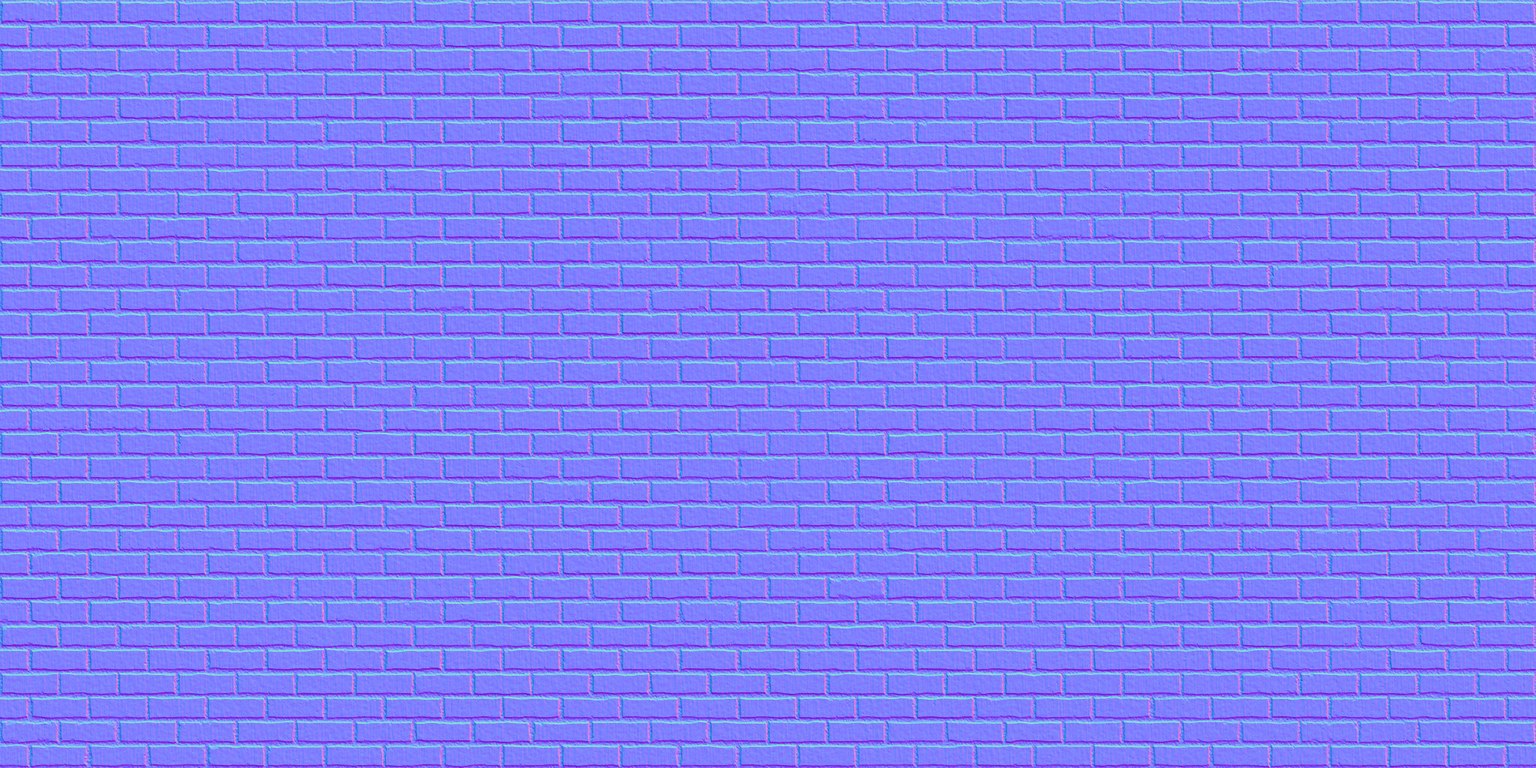
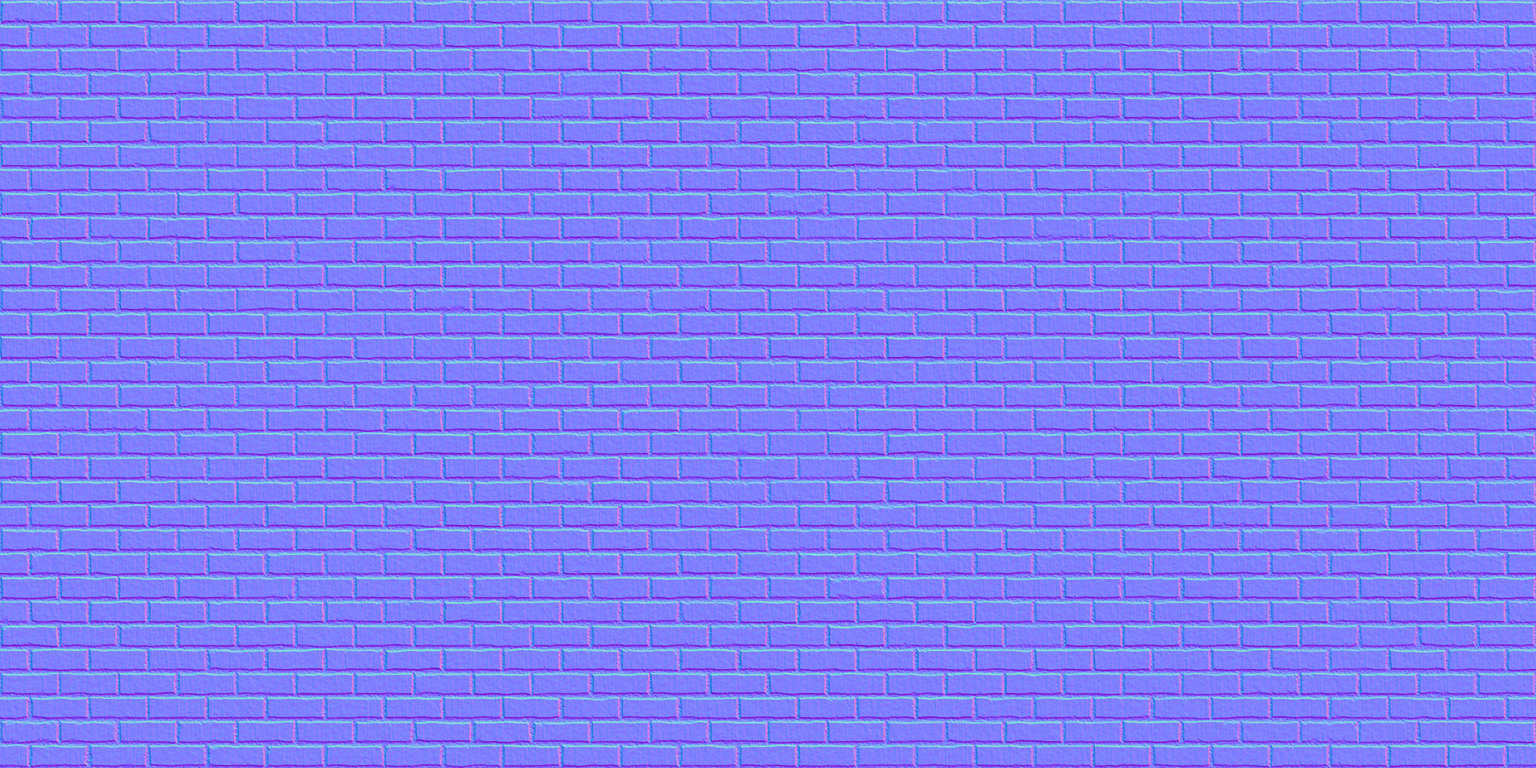
Textures v3 (QA of v2): wall-plane weathering noise, red-brown Hinsdale brick, pavers and red walls on their own tiles, pier returns
- Surface shader: all noise sampled in the wall's own plane (no more diagonal efflorescence / grime slashes, medium
  and low); efflorescence only low on the wall; 5 noise lookups instead of 8, second tile sample only inside the
  cross-fade band (textureGrad).
- Hinsdale: brickRed (low walls, dugouts, sign base, piers) gets a red-brick tile; walks use the keyed hcPaver,
  regenerated redder; buff and taupe bricks retargeted for how they render in sun (no peach); 1950 blend browner,
  warmer mortar, far fewer near-black units.
- Facade kit + Hamilton kit: brick pier returns shaded, bond wrapped round the corner and lit like their wall (the
  thin pale line up every pier edge was sun leaking through the shadow bias).
- MAP_NOTES / README: v3 lessons. Before / after sheets in dev/shots/textures/<id>/v3/.

diff --git a/src/world/campusTextures.js b/src/world/campusTextures.js
@@ -18,31 +18,48 @@ import { withWorld } from './assets.js';
 //         by slow world-space noise: joints stay registered, but no two stretches of wall show the same bricks, so a
 //         2-5 m tile does not read as a grid on a 60 m wall. z = 0 turns it off (low quality: one sample).
 //   uVar  [macro tone drift, rain streaks, micro grain (fades out with distance: no shimmer), roughness variation]
+// All noise is sampled in the SURFACE's own plane: `wp` = (distance along the wall, height) on walls, (x, z) on roofs
+// and paving. Never add height to both axes of a world-xz lookup (`xz * f + y * g`): that shears every blob into a
+// diagonal slash across the wall (v2: pale efflorescence slashes on Brown Hall, worst on low quality).
+// Cost: 5 value-noise lookups + 1 near the camera (v2: 8 + 2), and the second tile sample is only taken where the
+// cross-fade needs it (explicit gradients, so mip selection is unchanged): ~1.1 albedo samples per pixel instead of 2.
 const PARS = 'uniform vec3 uWx; uniform vec3 uAlt; uniform vec4 uVar; uniform vec2 uMic; float txLum = 1.0; float txDamp = 0.0;';
-const WEATHER = `#ifdef USE_MAP
-  vec4 sampledDiffuseColor = texture2D( map, vMapUv );
+const WEATHER = `
+  float wallness = 1.0 - smoothstep(0.5, 0.9, abs(vWN.y));                               // grade damp / streaks / bloom belong on walls, not on roofs and paving
+  bool txAlongX = abs(vWN.x) > abs(vWN.z);                                               // wall faces +-x: it runs along z
+  vec2 wp = wallness > 0.5 ? vec2(txAlongX ? vWPos.z + 31.7 : vWPos.x, vWPos.y) : vWPos.xz;
+  float g1 = wNoise(wp * vec2(0.37, 0.21));                                              // broad grime, taller than wide
+  float g2 = wNoise(wp * vec2(1.7, 0.9) + 5.3);
+  float big = wNoise(wp * vec2(0.085, 0.11) + 11.1);                                     // slow drift: no two bays look the same
+#ifdef USE_MAP
+  vec4 sampledDiffuseColor;
   if (uAlt.z > 0.0) {
-    float am = wNoise(vWPos.xz * 0.19 + vec2(vWPos.y * 0.23, -vWPos.y * 0.17)) * 0.65 + wNoise(vWPos.xz * 0.53 + vWPos.y * 0.61) * 0.35;
-    sampledDiffuseColor = mix(sampledDiffuseColor, texture2D( map, vMapUv + uAlt.xy ), smoothstep(0.44, 0.56, am) * uAlt.z);
-  }
+    float am = smoothstep(0.42, 0.58, wNoise(wp * vec2(0.23, 0.29) + 3.7) * 0.7 + g2 * 0.3) * uAlt.z;
+    vec2 gx = dFdx(vMapUv), gy = dFdy(vMapUv);
+    if (am < 0.999) sampledDiffuseColor = textureGrad( map, vMapUv, gx, gy );
+    if (am > 0.001) { vec4 s2 = textureGrad( map, vMapUv + uAlt.xy, gx, gy ); sampledDiffuseColor = am < 0.999 ? mix(sampledDiffuseColor, s2, am) : s2; }
+  } else sampledDiffuseColor = texture2D( map, vMapUv );
   txLum = dot(sampledDiffuseColor.rgb, vec3(0.3, 0.55, 0.15));
   diffuseColor *= sampledDiffuseColor;
 #endif
-  { float gr = wNoise(vWPos.xz * 0.35 + vWPos.y * 0.9) * 0.6 + wNoise(vec2(vWPos.x + vWPos.z, vWPos.y) * 1.7) * 0.4;
-    float big = wNoise(vec2(vWPos.x * 0.07 + vWPos.z * 0.11, vWPos.y * 0.13));          // slow drift: no two bays look the same
-    float wallness = 1.0 - smoothstep(0.5, 0.9, abs(vWN.y));                             // grade damp / streaks belong on walls, not on roofs and paving
+  { float gr = g1 * 0.6 + g2 * 0.4;
     float base = smoothstep(1.1, 0.0, vWPos.y) * wallness;
     txDamp = uWx.y * base * (0.6 + 0.8 * gr);
     diffuseColor.rgb *= (1.0 - uWx.x * 0.5 + uWx.x * gr) * (1.0 - uVar.x * 0.5 + uVar.x * big) * (1.0 - txDamp);
     diffuseColor.rgb *= mix(vec3(1.0), vec3(1.035, 1.0, 0.955), (big - 0.5) * 2.0 * uVar.x * 2.0);   // warm / cool drift with the tone drift
-    float st = wNoise(vec2(vWPos.x * 2.3 + vWPos.z * 1.7, vWPos.y * 0.11)) * 0.7 + wNoise(vec2(vWPos.x * 5.1 - vWPos.z * 4.3, vWPos.y * 0.23)) * 0.3;
+    float st = wNoise(vec2(wp.x * 3.1, wp.y * 0.12)) * 0.75 + g2 * 0.25;
     diffuseColor.rgb *= 1.0 - uVar.y * wallness * smoothstep(0.52, 0.85, st);              // rain run-off: long vertical streaks
-    float eff = smoothstep(0.72, 0.95, wNoise(vWPos.xz * 0.9 + vWPos.y * 2.3)) * smoothstep(0.2, 1.2, vWPos.y) * uWx.z * wallness;
-    diffuseColor.rgb = mix(diffuseColor.rgb, vec3(0.8, 0.78, 0.74), eff);
+    // efflorescence: soft pale bloom low on the wall (above the damp base, gone by ~3 m: splash zone and under the
+    // ground-floor sills), blobs taller than wide, thin enough that the brick still shows through
+    float effBand = smoothstep(0.25, 0.9, vWPos.y) * (1.0 - smoothstep(1.6, 3.0, vWPos.y)) * wallness * uWx.z;
+    if (effBand > 0.001) {
+      float eff = smoothstep(0.66, 0.92, wNoise(wp * vec2(0.8, 0.42) + 17.3) * 0.8 + g2 * 0.2) * effBand;
+      diffuseColor.rgb = mix(diffuseColor.rgb, vec3(0.74, 0.71, 0.66), eff);
+    }
     #ifdef USE_MAP
     float pxw = length(fwidth(vWPos));
     float mf = smoothstep(0.006, 0.0012, pxw) * uVar.z;                                    // only where a texel is bigger than a pixel
-    if (mf > 0.001) { vec2 q = fract(vMapUv) * uMic; diffuseColor.rgb *= 1.0 + mf * (wNoise(q) + wNoise(q * 2.3 + 7.1) - 1.0); }
+    if (mf > 0.001) { vec2 q = fract(vMapUv) * uMic; diffuseColor.rgb *= 1.0 + mf * 1.5 * (wNoise(q) - 0.5); }
     #endif
   }`;
 const ROUGH = `float roughnessFactor = roughness;

diff --git a/src/world/facade.js b/src/world/facade.js
@@ -12,11 +12,12 @@ export function edgeFrame(ax, az, bx, bz) {
   const tx = dx / L, tz = dz / L, nx = tz, nz = -tx;
   return { L, tx, tz, nx, nz, rotY: Math.atan2(-tz, tx), ax, az, P: (u, y, out = 0) => [ax + tx * u + nx * out, y, az + tz * u + nz * out] };
 }
-export function quadFacing(b, p0, p1, p2, p3, n, uv) {
+// `sn` (optional): shading normal written to the vertices instead of the geometric one.
+export function quadFacing(b, p0, p1, p2, p3, n, uv, sn) {
   const ux = p1[0] - p0[0], uy = p1[1] - p0[1], uz = p1[2] - p0[2], vx = p3[0] - p0[0], vy = p3[1] - p0[1], vz = p3[2] - p0[2];
   const cx = uy * vz - uz * vy, cy = uz * vx - ux * vz, cz = ux * vy - uy * vx;
-  if (cx * n[0] + cy * n[1] + cz * n[2] >= 0) b.quad(p0, p1, p2, p3, uv && uv[0], uv && uv[1], uv && uv[2], uv && uv[3]);
-  else b.quad(p0, p3, p2, p1, uv && uv[0], uv && uv[3], uv && uv[2], uv && uv[1]);
+  if (cx * n[0] + cy * n[1] + cz * n[2] >= 0) b.quad(p0, p1, p2, p3, uv && uv[0], uv && uv[1], uv && uv[2], uv && uv[3], sn);
+  else b.quad(p0, p3, p2, p1, uv && uv[0], uv && uv[3], uv && uv[2], uv && uv[1], sn);
 }
 // rectangle on the wall plane (offset out), facing outward; uvr = [u0, v0, u1, v1]
 export function wallRect(b, F, u0, u1, y0, y1, out, uvr) {
@@ -25,13 +26,20 @@ export function wallRect(b, F, u0, u1, y0, y1, out, uvr) {
 }
 // box standing off the wall: spans u0..u1, y0..y1, out o0..o1 (o1 > o0). Draws front, both sides, top, bottom.
 // s = uv metres->uv scale, uOff shifts u for continuous brick coursing.
+// faces: f front, s both sides, t top, b bottom; 'w' with 's' = masonry returns: the bond WRAPS the corner (the side's u
+// continues from the front face's edge, so a return shows the brick ends the front face implies, not column 0 of the tile)
+// and the return is LIT LIKE THE WALL it stands on (shading normal leaning 80 % to the wall's): a 10 cm return sits
+// inside the shadow bias of the wall behind it, so on a shaded front the sun leaked onto every east / west return and
+// drew a thin pale line up each pier.
 export function fbox(b, F, u0, u1, y0, y1, o0, o1, s = 1, uOff = 0, faces = 'fstb') {
   const n = [F.nx, 0, F.nz], t = [F.tx, 0, F.tz];
   if (faces.includes('f')) wallRect(b, F, u0, u1, y0, y1, o1, [(uOff + u0) * s, y0 * s, (uOff + u1) * s, y1 * s]);
   if (faces.includes('s')) {
-    const d = (o1 - o0) * s;
-    quadFacing(b, F.P(u0, y0, o0), F.P(u0, y1, o0), F.P(u0, y1, o1), F.P(u0, y0, o1), [-t[0], 0, -t[2]], [[0, y0 * s], [0, y1 * s], [d, y1 * s], [d, y0 * s]]);
-    quadFacing(b, F.P(u1, y0, o0), F.P(u1, y1, o0), F.P(u1, y1, o1), F.P(u1, y0, o1), t, [[0, y0 * s], [0, y1 * s], [d, y1 * s], [d, y0 * s]]);
+    const d = (o1 - o0) * s, wrap = faces.includes('w');
+    const a0 = wrap ? (uOff + u0) * s - d : 0, a1 = a0 + d, b1 = wrap ? (uOff + u1) * s : d, b0 = wrap ? b1 + d : 0;
+    const sn = (k) => (wrap ? [0.8 * n[0] + 0.6 * k * t[0], 0, 0.8 * n[2] + 0.6 * k * t[2]] : undefined);
+    quadFacing(b, F.P(u0, y0, o0), F.P(u0, y1, o0), F.P(u0, y1, o1), F.P(u0, y0, o1), [-t[0], 0, -t[2]], [[a0, y0 * s], [a0, y1 * s], [a1, y1 * s], [a1, y0 * s]], sn(-1));
+    quadFacing(b, F.P(u1, y0, o0), F.P(u1, y1, o0), F.P(u1, y1, o1), F.P(u1, y0, o1), t, [[b0, y0 * s], [b0, y1 * s], [b1, y1 * s], [b1, y0 * s]], sn(1));
   }
   if (faces.includes('t')) quadFacing(b, F.P(u0, y1, o0), F.P(u1, y1, o0), F.P(u1, y1, o1), F.P(u0, y1, o1), [0, 1, 0], [[u0 * s, 0], [u1 * s, 0], [u1 * s, (o1 - o0) * s], [u0 * s, (o1 - o0) * s]]);
   if (faces.includes('b')) quadFacing(b, F.P(u0, y0, o0), F.P(u1, y0, o0), F.P(u1, y0, o1), F.P(u0, y0, o1), [0, -1, 0], [[u0 * s, 0], [u1 * s, 0], [u1 * s, (o1 - o0) * s], [u0 * s, (o1 - o0) * s]]);
@@ -334,8 +342,10 @@ export function facade(ctx, F, y0, h, styleName, uOff, rnd, opts = {}) {
     drawnPiers.push([uc, w, out]);
     // deep pilasters on the big blank walls get a slightly darker brick so they read as pilasters, not as one stray edge line
     // (their returns are shaded darker still: a 14 cm sunlit brick return read as a bright seam running up the wall)
-    if (out >= 0.14) { setTint(brick, tint, 0.9); fbox(brick, F, a, b, pY - 0.02, wallTop, 0, out, BRICK_S, uOff, 'f'); setTint(brick, tint, 0.62); fbox(brick, F, a, b, pY - 0.02, wallTop, 0, out, BRICK_S, uOff, 's'); setTint(brick, tint); }
-    else fbox(brick, F, a, b, pY - 0.02, wallTop, 0, out, BRICK_S, uOff, 'fs');
+    // Returns of every pier are a shade darker (the corner's own occlusion), carry the bond round the corner and take
+    // the wall's lighting ('w' in fbox): no thin pale line up the pier edges of a shaded front.
+    if (out >= 0.14) setTint(brick, tint, 0.9);
+    fbox(brick, F, a, b, pY - 0.02, wallTop, 0, out, BRICK_S, uOff, 'f'); setTint(brick, tint, out >= 0.14 ? 0.66 : 0.74); fbox(brick, F, a, b, pY - 0.02, wallTop, 0, out, BRICK_S, uOff, 'sw'); setTint(brick, tint);
     fbox(pl, F, a - 0.04, b + 0.04, 0, pY + 0.04, 0, out + 0.07, STONE_S, uOff, 'fst');
     fbox(B.v('limestone'), F, a - 0.03, b + 0.03, wallTop - 0.16, wallTop, 0, out + 0.04, STONE_S, uOff, 'fstb');
   }

diff --git a/src/world/buildings.js b/src/world/buildings.js
@@ -224,13 +224,16 @@ function bigFlag(ctx, x, z, kind) {
 
 // 55th St front: lawn, drop-off drive with kerbs, the main walk up to the doors flanked by limestone planters,
 // flagpoles and the monument sign by the street (positions read off the aerial imagery).
+// Clay-paver walks: their own generated texture when the campus pack has one (`hcPaver`, keyed). `brickRed` is the red
+// BRICK of low walls, piers and sign bases: paver-sized units on a wall read wrong, so the two no longer share a tile.
+function paverBucket(ctx) { const e = ctx.TX && ctx.TX.tex.hcPaver; return e && e.key ? ctx.B.v('hcPaver', true) : ctx.B.v('brickRed'); }
 function frontApproach55(ctx, addDecal) {
   const { B, M } = ctx;
   const conc = B.v('concrete');
   for (const [x0, x1, z1, paver] of [[52.5, 69.5, -150.7, true], [15.6, 19.6, -149.6, false]]) {
     conc.box((x0 + x1) / 2, 0.02, (-168.6 + z1) / 2, x1 - x0, 0.045, z1 + 168.6, 0, 1 / 3);
     if (paver) {   // brick paver runner down the middle, like the engraved-brick walks at the school
-      const br = B.v('brickRed'); const a = 59.2, b = 62.8;
+      const br = paverBucket(ctx); const a = 59.2, b = 62.8;
       br.quad([a, 0.062, z1], [b, 0.062, z1], [b, 0.062, -168.6], [a, 0.062, -168.6], [0, 0], [1.6, 0], [1.6, 8], [0, 8]);
     }
   }
@@ -275,7 +278,7 @@ function grantPlaza(ctx, addDecal) {
   const lift = (F) => ({ ...F, P: (u, y, o) => { const p = F.P(u, y, o); p[1] += T; return p; } });
   // terrace
   B.solidBox('concrete', 'concrete', (wx + xe) / 2, T / 2, 1.25, wx - xe, T, 37.5, 0, 1 / 3);
-  B.v('brickRed').quad([-18.2, T + 0.03, 17.6], [-6.7, T + 0.03, 17.6], [-6.7, T + 0.03, 6.4], [-18.2, T + 0.03, 6.4], [0, 0], [5.6, 0], [5.6, 5.4], [0, 5.4]);
+  paverBucket(ctx).quad([-18.2, T + 0.03, 17.6], [-6.7, T + 0.03, 17.6], [-6.7, T + 0.03, 6.4], [-18.2, T + 0.03, 6.4], [0, 0], [5.6, 0], [5.6, 5.4], [0, 5.4]);
   // steps (7 risers) on the west side in front of the doors, with a ramp in collision
   const conc = B.v('concrete');
   for (let k = 0; k < 6; k++) { const top = T - (k + 1) * (T / 7); conc.box(xe - 0.19 - k * 0.38, top / 2, 12, 0.38, top, 16, 0, 1 / 3); }

diff --git a/src/campuses/hamilton/kit.js b/src/campuses/hamilton/kit.js
@@ -369,7 +369,7 @@ export function storeyWalls(ctx, ringIn, h, o = {}) {
       const door = o.doors !== false && L > 20 ? Math.floor(nb / 2) : -1;
       for (let k = 0; k < nb; k++) {
         const c = m + (k + 0.5) * bay;
-        if (o.piers && k > 0) { wb.setColor(tint[0] * 0.94, tint[1] * 0.94, tint[2] * 0.94); fbox(wb, F, m + k * bay - 0.3, m + k * bay + 0.3, 0.55, top, 0, 0.09, S, u, 'fs'); wb.setColor(tint[0], tint[1], tint[2]); }
+        if (o.piers && k > 0) { wb.setColor(tint[0] * 0.94, tint[1] * 0.94, tint[2] * 0.94); fbox(wb, F, m + k * bay - 0.3, m + k * bay + 0.3, 0.55, top, 0, 0.09, S, u, 'f'); wb.setColor(tint[0] * 0.72, tint[1] * 0.72, tint[2] * 0.72); fbox(wb, F, m + k * bay - 0.3, m + k * bay + 0.3, 0.55, top, 0, 0.09, S, u, 'sw'); wb.setColor(tint[0], tint[1], tint[2]); }   // returns: shaded, bond wrapped, lit like the wall (fbox 'w')
         for (let s = 0; s < n; s++) {
           const y0 = s * fh + sill, y1 = y0 + wh;
           if (s === 0 && k === door) {

diff --git a/MAP_NOTES.md b/MAP_NOTES.md
@@ -151,7 +151,7 @@ Hinsdale, Hamilton, Marin and Branson all had to be gone over again because they
    Measure the old tile's linear mean from the file; do not trust a constant in the code (the shared shingle tile is
    0.032, the kits' `TILE_AVG` says 0.2: a neutral 0.2 shingle turned every Marin and Branson roof pink-white).
 6. **Check**: `?tex=0` is the before, default the after; one side-by-side per school building (before | after | photo
-   from the same side) in `dev/shots/textures/<id>/v2/` (the `ref-compare/` folder there is gitignored because
+   from the same side) in `dev/shots/textures/<id>/v<n>/` (the `ref-compare/` folder there is gitignored because
    it contains the photos). Map check 0 fails, practice with no console errors, FPS on medium, pack size (2-4 MB).
 7. **Colour: what made the difference (v2, after "Hinsdale brick is too grey").** The v1 Hinsdale bricks were measured
    honestly and still came out grey-purple in the game. Why, and the rules that fix it:
@@ -178,6 +178,30 @@ Hinsdale, Hamilton, Marin and Branson all had to be gone over again because they
 8. Lessons so far: a clay-tile or batten albedo with no baked shading reads as flat stripes (bake the barrel / batten
    shadow into the colour, the normal map alone is not enough at roof distance); mission tile must be double-sided like
    shingles; a brick tile under ~2.5 m wide repeats visibly on a 60 m gym wall unless the weathering shader is on.
+9. **v3 lessons (independent QA of v2: slashes on Brown Hall, coral paver units on walls, peach gyms, purple north front).**
+   - **Weathering noise lives in the wall's own plane.** Sample it with (distance along the wall, height): pick x or z
+     by the dominant axis of the normal, (x, z) on roofs and paving. `noise(xz * f + y * g)` adds height to BOTH axes
+     and shears every blob into a diagonal slash; it hid on variegated Hinsdale brick and showed on even Hamilton
+     brick, worst on low quality (one sample, nothing to break it up). Efflorescence stays low on the wall (0.25-3 m),
+     blobs taller than wide. Check every shader change on the most EVEN wall of every campus, at low quality too.
+   - **Set albedo for what the wall looks like in the game, not for the swatch.** ACES plus the blue hemisphere fill
+     lift G ~8 % and B ~30 % relative to R on a sunlit wall, and pale mortar adds more of both: a face target of
+     [0.43, 0.225, 0.128] rendered 177/148/132 (peach), [0.335, 0.148, 0.064] with a darker warm mortar renders
+     177/134/107 (brick). Rule of thumb for a sunlit wall in a screenshot: R/G >= 1.3 reads brick, 1.2 reads peach;
+     in shade B must stay under G or the wall goes purple. Measure the screenshot (mean of a wall patch), then move
+     the target; do not eyeball it.
+   - **One generated tile per real material, and check where a material key is USED before overriding it.**
+     `brickRed` was both the paver walks and every low red wall, dugout, pier and sign base: pointing it at the paver
+     tile put paver-sized coral units on vertical walls. Walks now take their own keyed tile (`hcPaver`, see
+     `paverBucket` in src/world/buildings.js); walls take a small red-brick tile. grep the key before the override.
+   - **Dark units: 1 in 60-80, and brown-black, not red-black.** A dark unit with R/G > 2.5 reads plum in shade.
+   - **Returns thinner than ~15 cm sit inside the shadow bias of the wall behind them**: on a shaded front the sun
+     leaked onto every east / west pilaster return and drew a thin pale line up each pier (also with the pack off).
+     The facade kit's `fbox(..., 'sw')` gives masonry returns a shading normal leaning to the wall's, a darker tint
+     and u continued round the corner. Use it for every brick pier (Hinsdale kit, Hamilton `storeyWalls`).
+   - **Frame time**: `__bench` in a hidden pane on a machine shared with other agents is +-1 ms noise. A/B inside
+     one tab (toggle the uniform, e.g. `material.userData.txSurface.uAlt.value.z`), interleave the runs and take the
+     minimum. The second tile sample is now taken only where the cross-fade needs it (`textureGrad`, so mips match).
 
 ## Map check (required before QA)
 

diff --git a/tools/textures/README.md b/tools/textures/README.md
@@ -70,7 +70,16 @@ Python: `numpy`, `pillow`, `scipy` (a venv is fine). Run everything from the rep
   src/world/campusTextures.js: a second sample of the tile shifted by `altM` (a whole number of units / courses, from
   the generator) cross-faded by world noise, tone and warm-cool drift (`macro`, 0.3), rain streaks (`streaks`, 0.1),
   micro grain near the camera (`micro`, 0.1) and texel-driven roughness (`roughVar`, 0.5). `alt: 0` switches the
-  second sample off for one texture; low quality never takes it.
+  second sample off for one texture; low quality never takes it. All of its noise is sampled in the surface's own
+  plane (distance along the wall, height): never `xz * f + y * g`, which shears blobs into diagonal slashes. The
+  second sample is fetched only inside the cross-fade band (`textureGrad`), efflorescence only between 0.25 and 3 m.
+- Colour is judged in the game: the tone curve and the sky fill lift G and B on a sunlit wall, so a face target that
+  matches the photo swatch can render peach. Measure a wall patch in a screenshot (sunlit R/G >= 1.3 for red-brown
+  brick, B < G in shade) and move the target (MAP_NOTES "Textures from references", item 9).
+- Before overriding a shared material key, grep where it is used: one key must not skin both paving and walls
+  (Hinsdale `brickRed`: walks now use the keyed `hcPaver`, low walls the `hcBrickRed` tile).
+- Brick piers: `fbox(..., 'f')` for the face and `fbox(..., 'sw')` for the returns (shaded, bond wrapped round the
+  corner, lit like the wall: thin returns otherwise catch sun that leaks through the shadow bias).
 - Masonry colour: `colors` + `weights` are the palette of unit faces, `target` the measured mean of the FACES (mortar is
   its own swatch), `target_tile` a whole-wall mean instead. Detail knobs (all optional): `texture` (wirecut, sand,
   smooth, split), `unit_var`, `hue_var`, `grad`, `flash`, `heart_frac`, `scum_frac`, `chips`, `wobble`, `smear`, `pits`,
